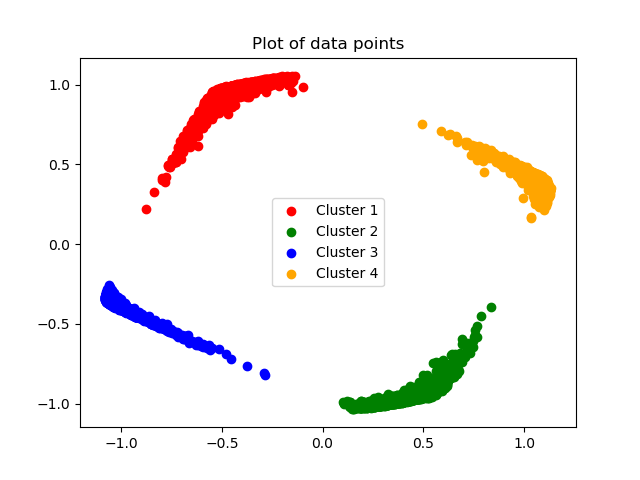
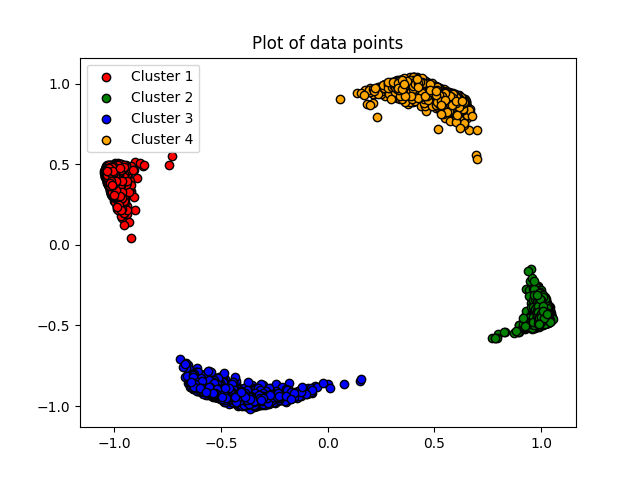
Done refactoring

diff --git a/Data/synthetic_plots.py b/Data/synthetic_plots.py
@@ -1,93 +1,96 @@
-import random
-from synthetic_data_generation import syn_data_points
-import numpy as np
 import matplotlib.pyplot as plt
+import numpy as np
 from sklearn.decomposition import PCA
 
-#Assumming data of 4-class
-def plot_points(x,y):
-    x1=list()
-    x2=list()
-    x3=list()
-    x4=list()
-    y1=list()
+from synthetic_data_generation import syn_data_points
+
+
+# Assuming data of 4-class
+def plot_points(x, y):
+    x1 = list()
+    x2 = list()
+    x3 = list()
+    x4 = list()
+    y1 = list()
     y2 = list()
     y3 = list()
     y4 = list()
     for i in range(y.shape[0]):
-        if(y[i]==1):
-            x1.append(x[i,0])
-            y1.append(x[i,1])
-        elif(y[i]==2):
-            x2.append(x[i,0])
-            y2.append(x[i,1])
-        elif (y[i] == 3):
+        if y[i] == 1:
+            x1.append(x[i, 0])
+            y1.append(x[i, 1])
+        elif y[i] == 2:
+            x2.append(x[i, 0])
+            y2.append(x[i, 1])
+        elif y[i] == 3:
             x3.append(x[i, 0])
             y3.append(x[i, 1])
         else:
-            x4.append(x[i,0])
-            y4.append(x[i,1])
-    #print(x.shape)
+            x4.append(x[i, 0])
+            y4.append(x[i, 1])
 
-    plt.scatter(x1,y1,color=['red'],label='Cluster 1')
-    plt.scatter(x2, y2, color=['green'], label='Cluster 2')
-    plt.scatter(x3, y3, color=['blue'], label='Cluster 3')
-    plt.scatter(x4, y4, color=['orange'], label='Cluster 4')
+    plt.scatter(x1, y1, color=['red'], label='Cluster 1', edgecolors=(0, 0, 0))
+    plt.scatter(x2, y2, color=['green'], label='Cluster 2', edgecolors=(0, 0, 0))
+    plt.scatter(x3, y3, color=['blue'], label='Cluster 3', edgecolors=(0, 0, 0))
+    plt.scatter(x4, y4, color=['orange'], label='Cluster 4', edgecolors=(0, 0, 0))
     plt.legend()
     plt.title('Plot of data points')
-    #plt.show()
 
 
-#Assigning cluster no. based on coordinate system
+# Assigning cluster no. based on coordinate system
 def assign_cluster(x):
-    if(x[0]>=0 and x[1]>=0):
+    if x[0] >= 0 and x[1] >= 0:
         return 1
-    elif(x[0]<0 and x[1]>=0):
+    elif x[0] < 0 and x[1] >= 0:
         return 2
-    elif(x[0]<0 and x[1]<0):
+    elif x[0] < 0 and x[1] < 0:
         return 3
     else:
         return 4
 
-#Generating 2-d points and dividing them in 4-clusters based on co-ordinate system
 
+# Generating 2-d points and dividing them in 4-clusters based on co-ordinate system
 
-
-#sigmoid calculation
 def sigmoid(z):
-    z_hat=1/(1+np.exp(-z))
+    """
+    sigmoid calculation
+    :param z:
+    :return:
+    """
+    z_hat = 1 / (1 + np.exp(-z))
     return z_hat
 
 
-#transform data from 2-d to 100-d using non-linear transformation
-#assume data points to be 2-dimension
-#x=sigmoid(U*sigmoid(W*x(in 2d)))
-def to_higer_dimension(x):
-    W=np.random.normal(loc=0,scale=1,size=(10,2))
-    #U=np.random.normal(loc=0,scale=1,size=(100,10))
-    x_new=np.square(sigmoid(np.dot(W,x.T))).T
-    #print(x_new.shape)
+def to_higher_dimension(x):
+    """
+    transform data from 2-d to 100-d using non-linear transformation
+    assume data points to be 2-dimension
+    x=sigmoid(U*sigmoid(W*x(in 2d)))
+
+    :param x:
+    :return:
+    """
+    W = np.random.normal(loc=0, scale=1, size=(10, 2))
+    # U=np.random.normal(loc=0,scale=1,size=(100,10))
+    x_new = np.square(sigmoid(np.dot(W, x.T))).T
     return x_new
 
 
-def to_higer_dimension2(x):
-    W=np.random.normal(loc=0,scale=1,size=(10,2))
-    #U=np.random.normal(loc=0,scale=1,size=(100,10))
-    x_new=np.tanh(sigmoid(np.dot(W,x.T))).T
-    #print(x_new.shape)
+def to_higher_dimension2(x):
+    W = np.random.normal(loc=0, scale=1, size=(10, 2))
+    # U=np.random.normal(loc=0,scale=1,size=(100,10))
+    x_new = np.tanh(sigmoid(np.dot(W, x.T))).T
     return x_new
+
 
 if __name__ == '__main__':
     x, y = syn_data_points()
     plot_points(x, y)
     plt.savefig("../data_points_2_dim.png")
     plt.close()
-    x_high = to_higer_dimension2(x)
+    x_high = to_higher_dimension2(x)
 
     pca = PCA(n_components=2)
     x_pca = pca.fit_transform(x_high)
     plot_points(x_pca, y)
     plt.savefig("../data_points_100_dim.png")
-
-
-

diff --git a/Data/synthetic_data_generation.py b/Data/synthetic_data_generation.py
@@ -1,26 +1,18 @@
-import matplotlib.pyplot as plt
 from sklearn.datasets import make_blobs
 
 
-def syn_data_points(n_samples=10000, centers=[(-5, -5), (5, -5), (-5, 5), (5, 5)]):
+def syn_data_points(n_samples=10000):
     """
     returns 2-Dimensional data points centers around the given centers
-    and saves the plot
 
     :param n_samples:
-    :param centers:
     :return:
     """
+    # centers of the clusters
+    centers = [(-5, -5), (5, -5), (-5, 5), (5, 5)]
+
     x, y = make_blobs(n_samples=n_samples, n_features=2, cluster_std=1.0,
                       centers=centers, shuffle=False, random_state=42)
-
-    # saves the plot of the synthetic data points
-    plt.scatter(x[:, 0], x[:, 1], edgecolors=(0, 0, 0))
-    plt.xlabel("h0")
-    plt.ylabel("h1")
-    plt.grid()
-    plt.title("2 Dimensional Synthetic data")
-    plt.savefig("../synthetic_data_points.png")
 
     return x, y
 
